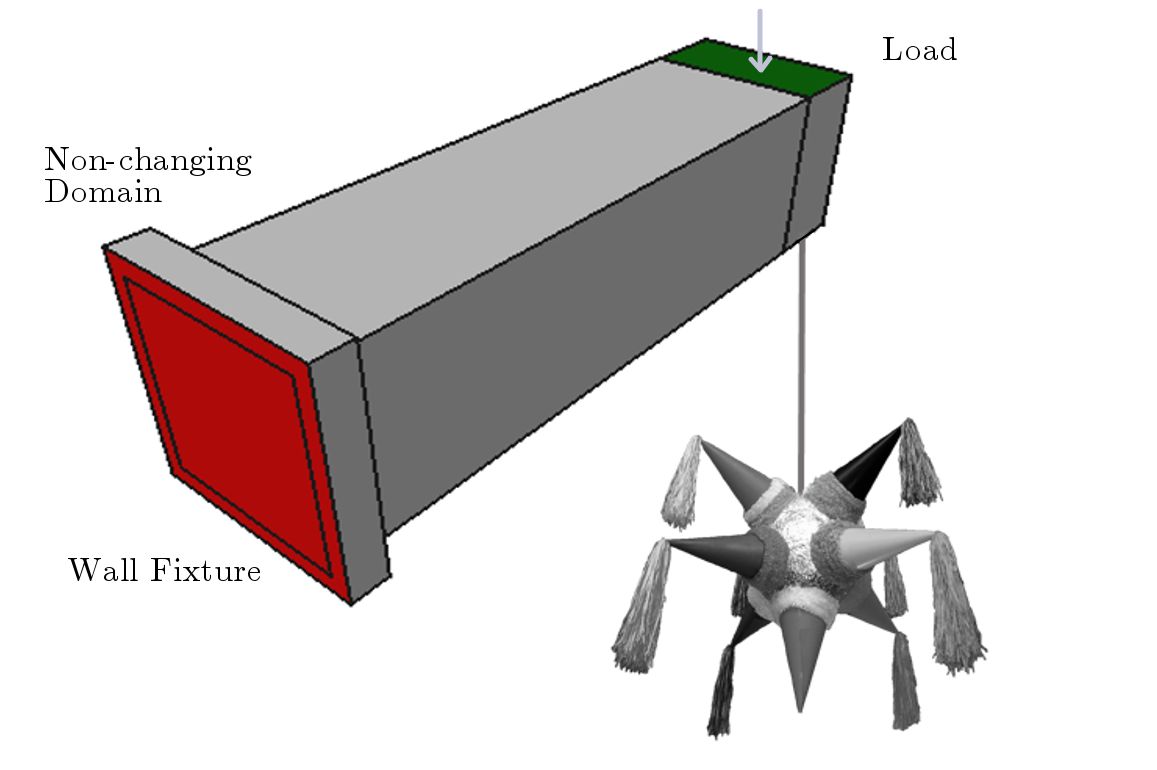
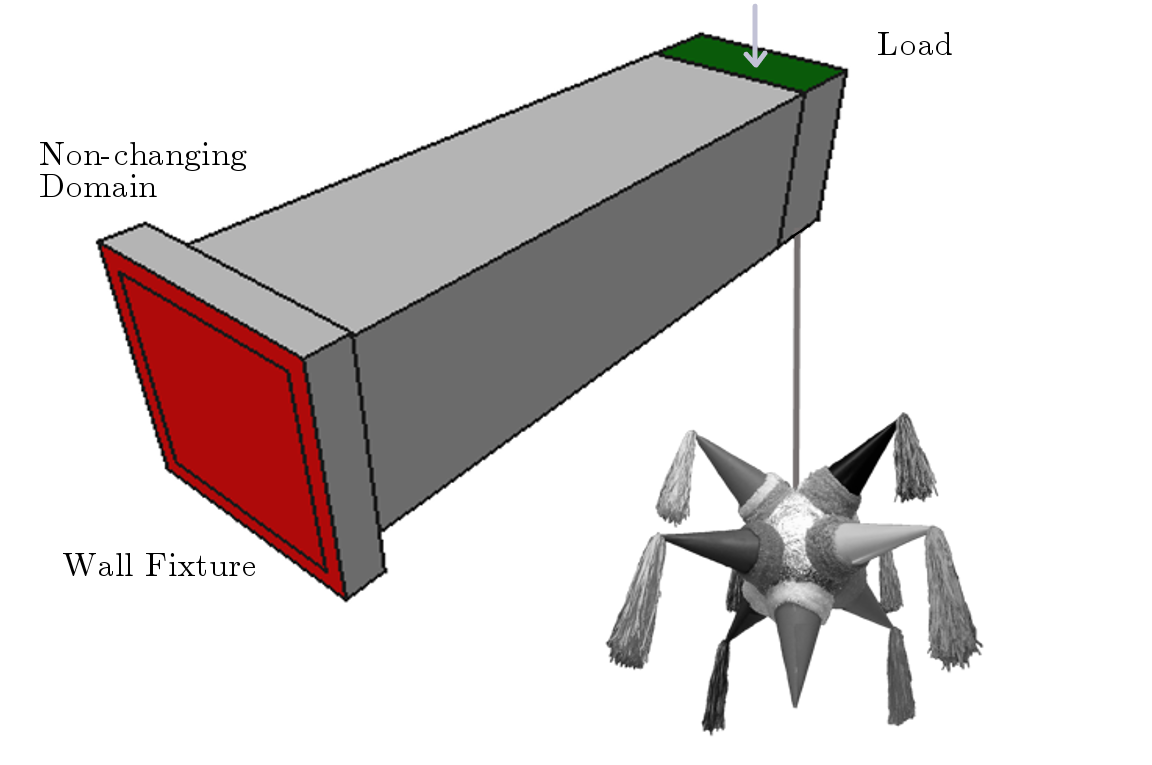
script

diff --git a/ThirdMilestoneMeeting/Presentation/Sections/Pitch.tex b/ThirdMilestoneMeeting/Presentation/Sections/Pitch.tex
@@ -124,9 +124,9 @@
 
 % FEATURES
 \begin{frame}{Features}
-	\begin{block}{Robust and Easy}{
+	\begin{block}{Effective and Easy}{
 			\begin{itemize}
-				\item Reconstructs 3D geometry from Top-opt output
+				\item Reconstructs 3D geometry from Top-opt results
 				\item Provides production-ready output
 				\item Works like a black-box
 			\end{itemize}
@@ -151,7 +151,7 @@
 \end{frame}
 
 \begin{frame}{Time to help Dave!}
-	\includegraphics[width=1.0\textwidth, center]{Pictures/FirstHalf/pinata.pdf}
+	\includegraphics[width=0.75\textwidth, center]{Pictures/FirstHalf/pinata}
 \end{frame}
 
 \begin{frame}{Time to help Dave!}
